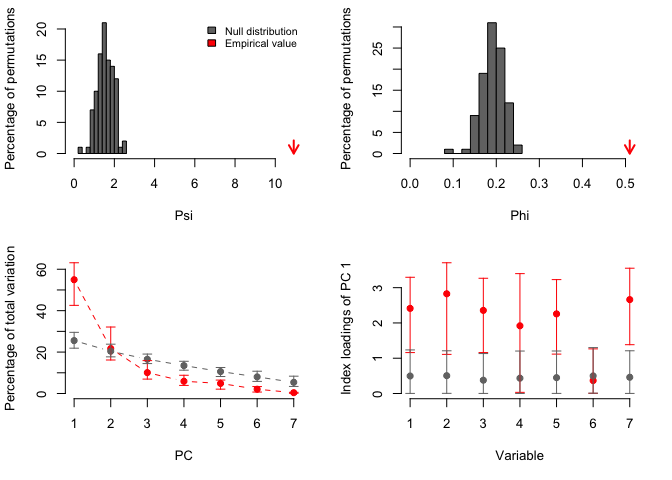
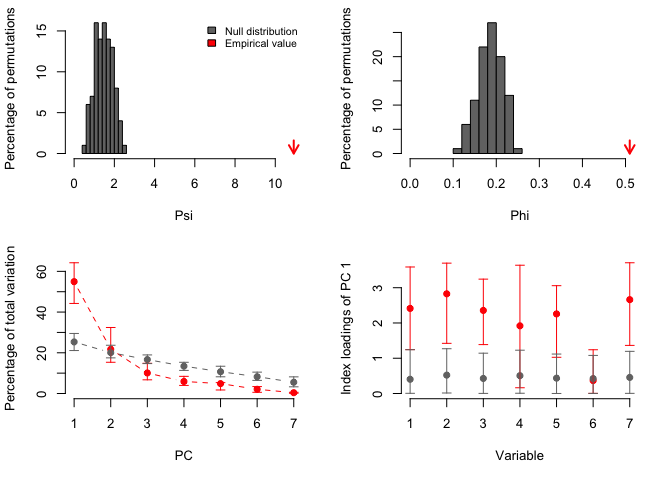
fix readme

diff --git a/README.md b/README.md
@@ -52,8 +52,8 @@ result<-PCAtest(ex0, 100, 100, 0.05, varcorr=FALSE, counter=FALSE, plot=TRUE)
 #> 100 bootstrap replicates, 100 random permutations
 #> ========================================================
 #> 
-#> Empirical Psi = 0.1691, Max null Psi = 0.5249, Min null Psi = 0.0578, p-value = 0.54
-#> Empirical Phi = 0.0920, Max null Phi = 0.1620, Min null Phi = 0.0538, p-value = 0.54
+#> Empirical Psi = 0.1691, Max null Psi = 0.4629, Min null Psi = 0.0610, p-value = 0.62
+#> Empirical Phi = 0.0920, Max null Phi = 0.1521, Min null Phi = 0.0552, p-value = 0.62
 #> 
 #> PCA is not significant!
 ```
@@ -78,16 +78,16 @@ result<-PCAtest(ex05, 100, 100, 0.05, varcorr=FALSE, counter=FALSE, plot=TRUE)
 #> 100 bootstrap replicates, 100 random permutations
 #> ========================================================
 #> 
-#> Empirical Psi = 5.4655, Max null Psi = 0.4143, Min null Psi = 0.0722, p-value = 0
-#> Empirical Phi = 0.5228, Max null Phi = 0.1439, Min null Phi = 0.0601, p-value = 0
+#> Empirical Psi = 5.4655, Max null Psi = 0.5552, Min null Psi = 0.0373, p-value = 0
+#> Empirical Phi = 0.5228, Max null Phi = 0.1666, Min null Phi = 0.0432, p-value = 0
 #> 
-#> Empirical eigenvalue #1 = 3.08098, Max null eigenvalue = 1.44839, p-value = 0
-#> Empirical eigenvalue #2 = 0.63526, Max null eigenvalue = 1.28687, p-value = 1
-#> Empirical eigenvalue #3 = 0.52603, Max null eigenvalue = 1.07151, p-value = 1
-#> Empirical eigenvalue #4 = 0.43234, Max null eigenvalue = 0.96044, p-value = 1
-#> Empirical eigenvalue #5 = 0.3254, Max null eigenvalue = 0.87155, p-value = 1
+#> Empirical eigenvalue #1 = 3.08098, Max null eigenvalue = 1.58798, p-value = 0
+#> Empirical eigenvalue #2 = 0.63526, Max null eigenvalue = 1.24288, p-value = 1
+#> Empirical eigenvalue #3 = 0.52603, Max null eigenvalue = 1.11571, p-value = 1
+#> Empirical eigenvalue #4 = 0.43234, Max null eigenvalue = 0.98218, p-value = 1
+#> Empirical eigenvalue #5 = 0.3254, Max null eigenvalue = 0.88184, p-value = 1
 #> 
-#> PC 1 is significant and accounts for 61.6% (95%-CI:53.5-68.6) of the total variation
+#> PC 1 is significant and accounts for 61.6% (95%-CI:54.5-67.5) of the total variation
 #> 
 #> Variables 1, 2, 3, 4, and 5 have significant loadings on PC 1
 ```
@@ -114,14 +114,14 @@ result<-PCAtest(ex1, 100, 100, 0.05, varcorr=FALSE, counter=FALSE, plot=TRUE)
 #> 100 bootstrap replicates, 100 random permutations
 #> ========================================================
 #> 
-#> Empirical Psi = 20.0000, Max null Psi = 0.6435, Min null Psi = 0.0473, p-value = 0
-#> Empirical Phi = 1.0000, Max null Phi = 0.1794, Min null Phi = 0.0486, p-value = 0
+#> Empirical Psi = 20.0000, Max null Psi = 0.4684, Min null Psi = 0.0462, p-value = 0
+#> Empirical Phi = 1.0000, Max null Phi = 0.1530, Min null Phi = 0.0481, p-value = 0
 #> 
-#> Empirical eigenvalue #1 = 5, Max null eigenvalue = 1.64792, p-value = 0
-#> Empirical eigenvalue #2 = 0, Max null eigenvalue = 1.27693, p-value = 1
-#> Empirical eigenvalue #3 = 0, Max null eigenvalue = 1.1191, p-value = 1
-#> Empirical eigenvalue #4 = 0, Max null eigenvalue = 0.96938, p-value = 1
-#> Empirical eigenvalue #5 = 0, Max null eigenvalue = 0.87115, p-value = 1
+#> Empirical eigenvalue #1 = 5, Max null eigenvalue = 1.48779, p-value = 0
+#> Empirical eigenvalue #2 = 0, Max null eigenvalue = 1.27443, p-value = 1
+#> Empirical eigenvalue #3 = 0, Max null eigenvalue = 1.10132, p-value = 1
+#> Empirical eigenvalue #4 = 0, Max null eigenvalue = 0.97791, p-value = 1
+#> Empirical eigenvalue #5 = 0, Max null eigenvalue = 0.8728, p-value = 1
 #> 
 #> PC 1 is significant and accounts for 100% (95%-CI:100-100) of the total variation
 #> 
@@ -149,18 +149,18 @@ result<-PCAtest(ants, 100, 100, 0.05, varcorr=FALSE, counter=FALSE, plot=TRUE)
 #> 100 bootstrap replicates, 100 random permutations
 #> ========================================================
 #> 
-#> Empirical Psi = 10.9186, Max null Psi = 2.5630, Min null Psi = 0.3943, p-value = 0
-#> Empirical Phi = 0.5099, Max null Phi = 0.2470, Min null Phi = 0.0969, p-value = 0
+#> Empirical Psi = 10.9186, Max null Psi = 2.4506, Min null Psi = 0.4333, p-value = 0
+#> Empirical Phi = 0.5099, Max null Phi = 0.2416, Min null Phi = 0.1016, p-value = 0
 #> 
-#> Empirical eigenvalue #1 = 3.84712, Max null eigenvalue = 2.17652, p-value = 0
-#> Empirical eigenvalue #2 = 1.52017, Max null eigenvalue = 1.71716, p-value = 0.25
-#> Empirical eigenvalue #3 = 0.70634, Max null eigenvalue = 1.42897, p-value = 1
-#> Empirical eigenvalue #4 = 0.41356, Max null eigenvalue = 1.138, p-value = 1
-#> Empirical eigenvalue #5 = 0.34001, Max null eigenvalue = 0.92547, p-value = 1
-#> Empirical eigenvalue #6 = 0.14515, Max null eigenvalue = 0.81947, p-value = 1
-#> Empirical eigenvalue #7 = 0.02765, Max null eigenvalue = 0.61403, p-value = 1
+#> Empirical eigenvalue #1 = 3.84712, Max null eigenvalue = 2.19363, p-value = 0
+#> Empirical eigenvalue #2 = 1.52017, Max null eigenvalue = 1.73926, p-value = 0.18
+#> Empirical eigenvalue #3 = 0.70634, Max null eigenvalue = 1.37476, p-value = 1
+#> Empirical eigenvalue #4 = 0.41356, Max null eigenvalue = 1.11327, p-value = 1
+#> Empirical eigenvalue #5 = 0.34001, Max null eigenvalue = 0.99515, p-value = 1
+#> Empirical eigenvalue #6 = 0.14515, Max null eigenvalue = 0.7793, p-value = 1
+#> Empirical eigenvalue #7 = 0.02765, Max null eigenvalue = 0.65133, p-value = 1
 #> 
-#> PC 1 is significant and accounts for 55% (95%-CI:42.6-63.1) of the total variation
+#> PC 1 is significant and accounts for 55% (95%-CI:44.2-64.2) of the total variation
 #> 
 #> Variables 1, 2, 3, 4, 5, and 7 have significant loadings on PC 1
 ```
